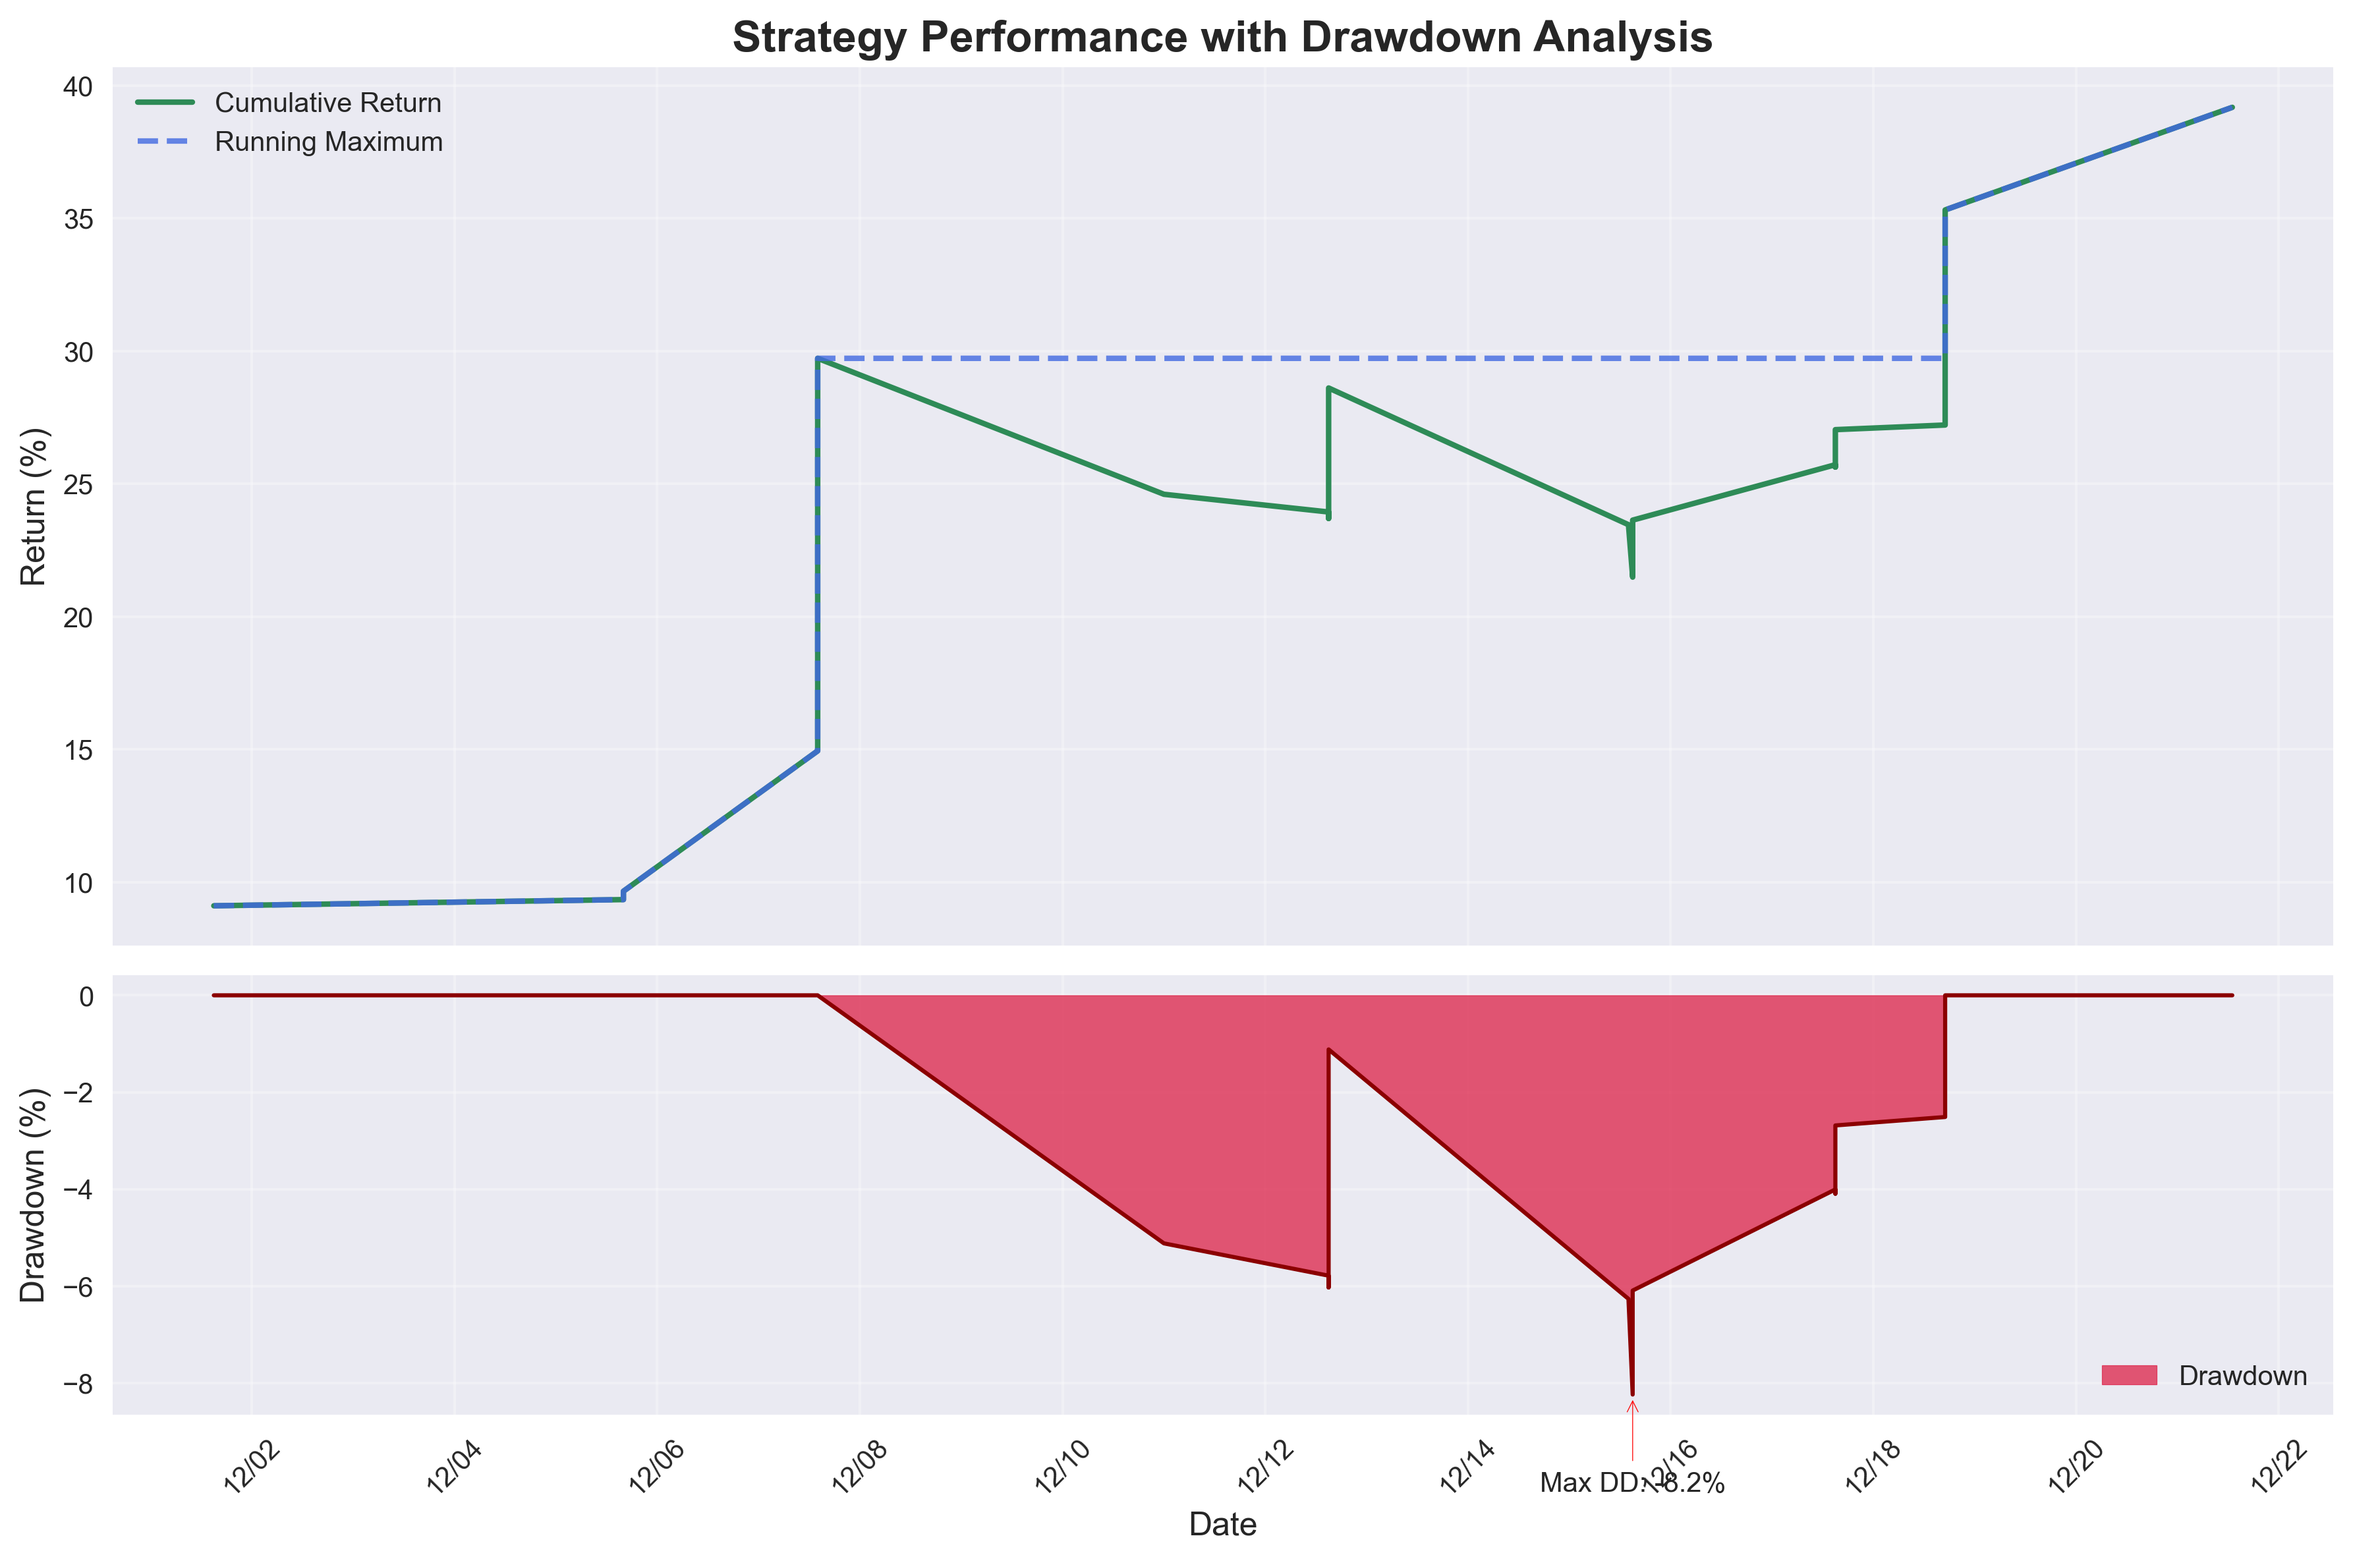
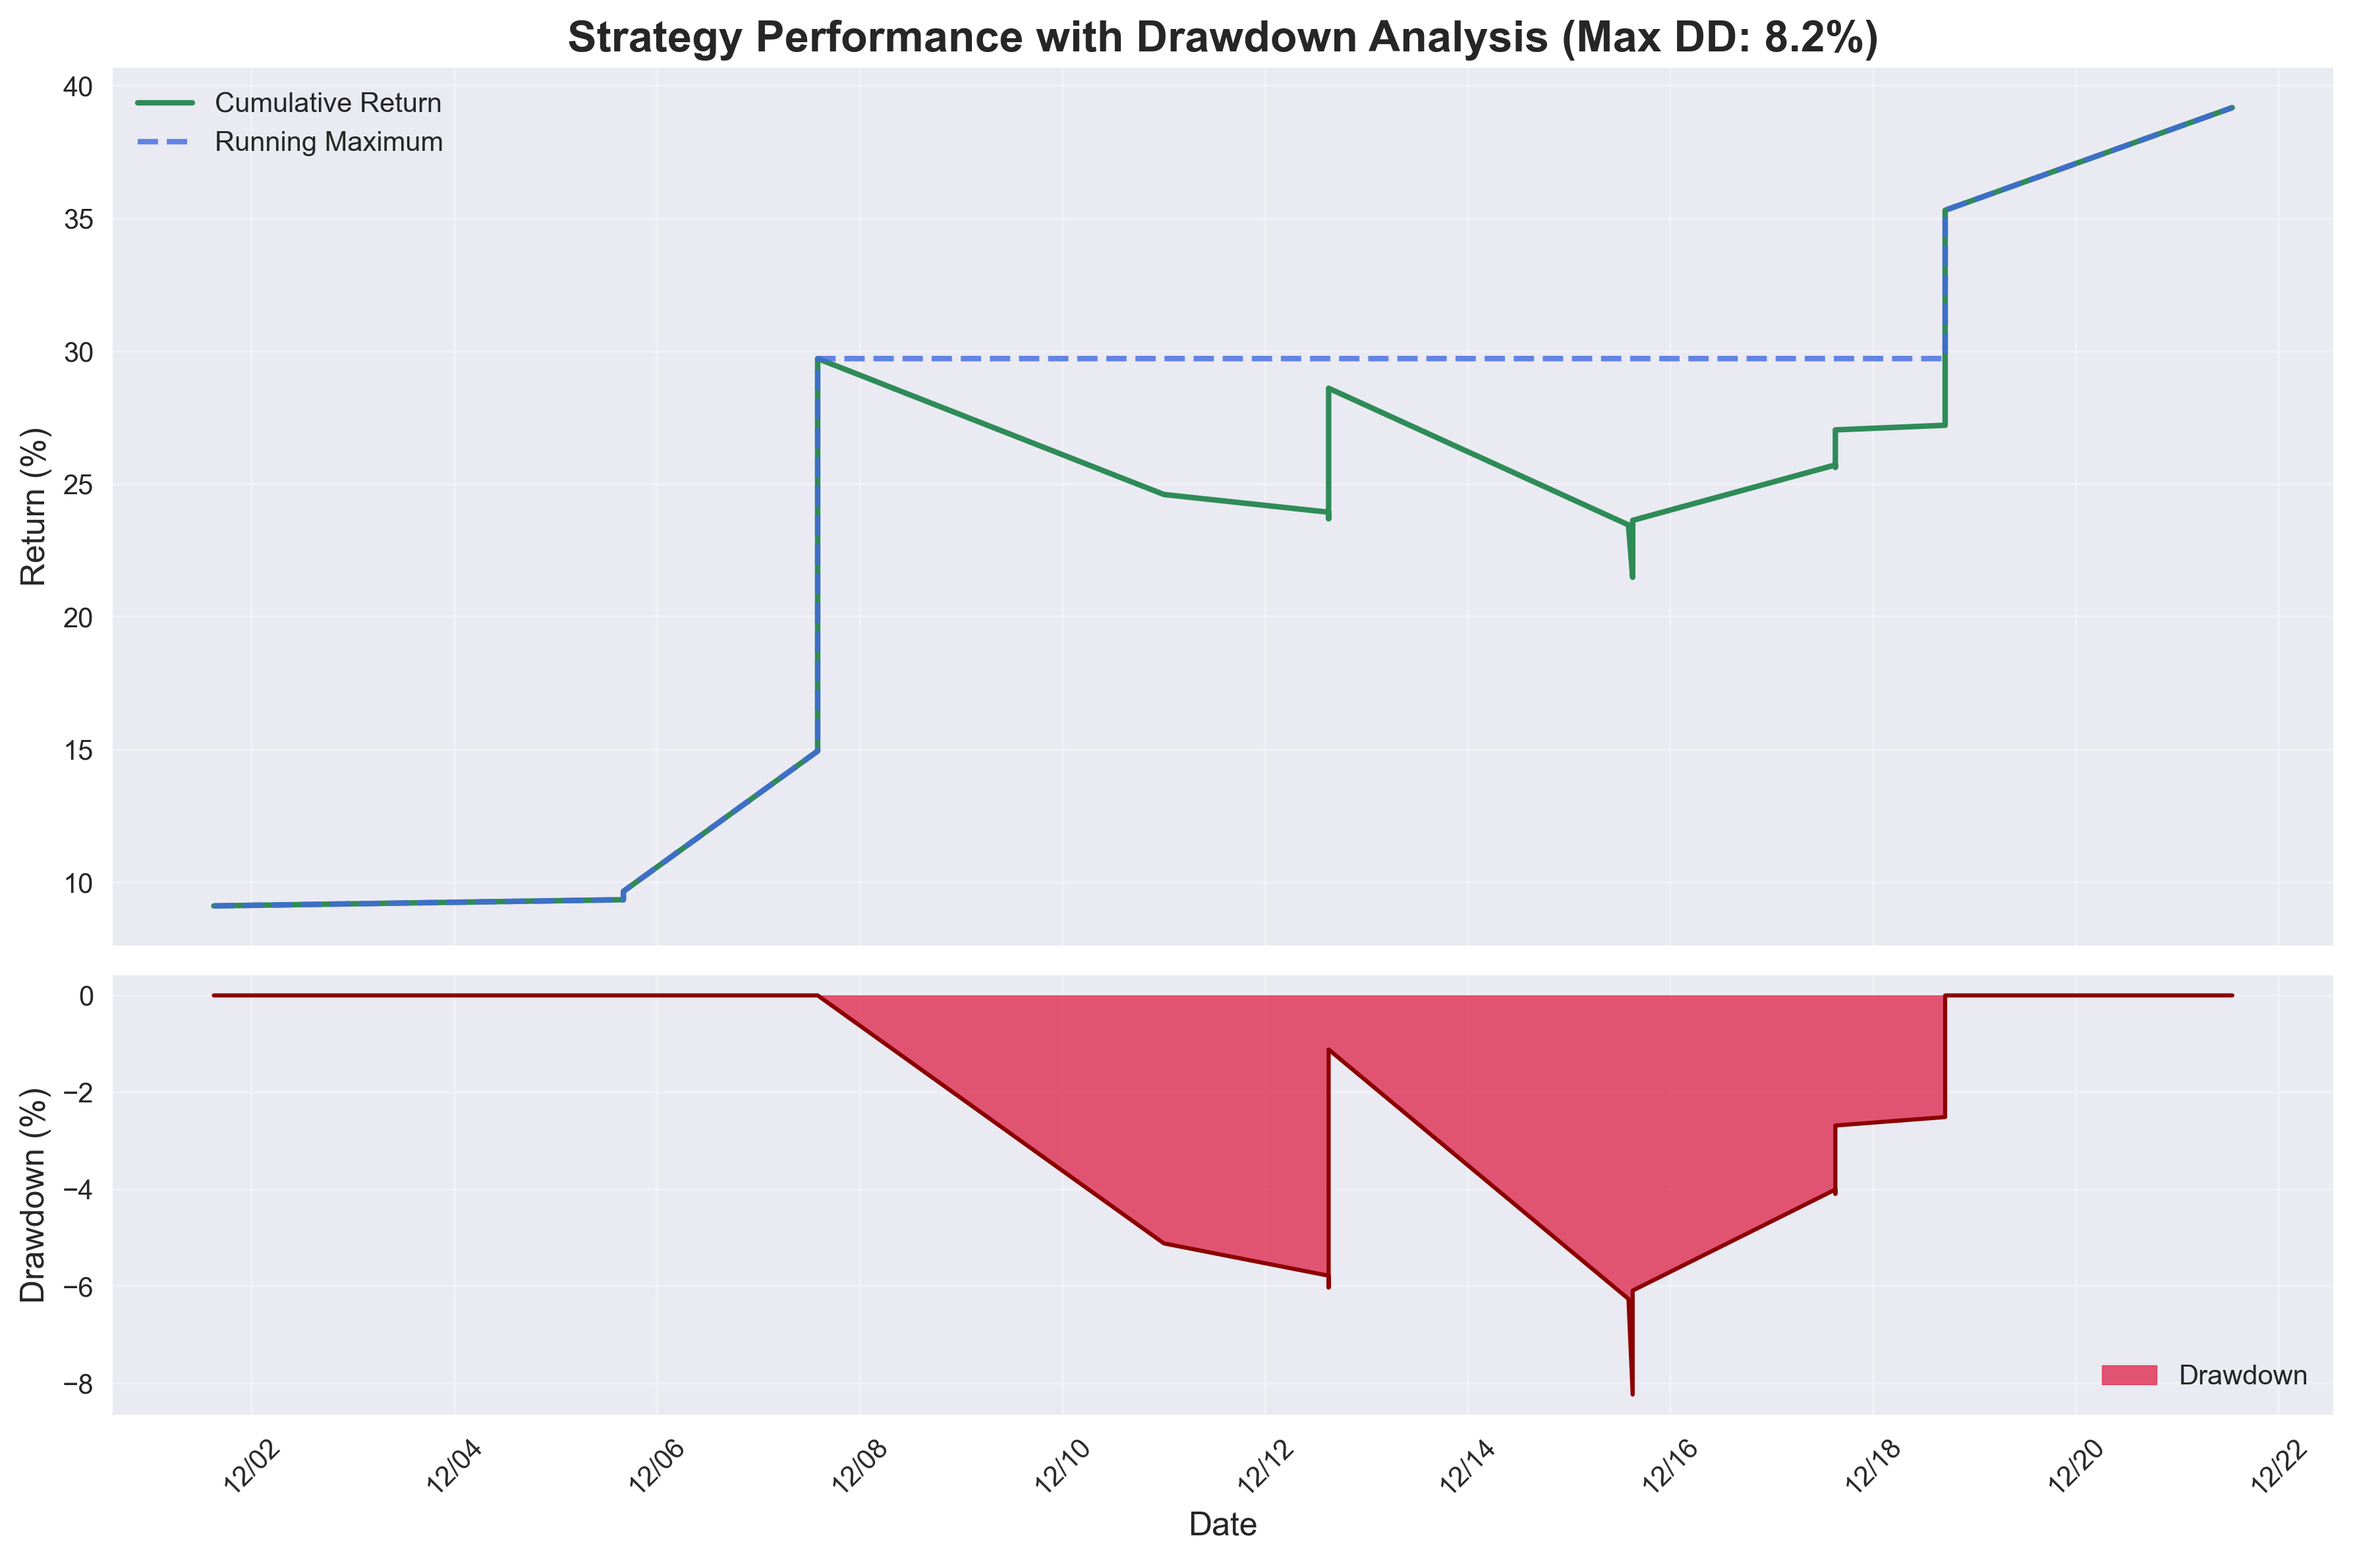
Fixed visualizations

Changed region(s): [[0.2487, 0.0, 0.8082, 0.0312], [0.6528, 0.9371, 0.7149, 0.9683]]

diff --git a/src/visualizations.py b/src/visualizations.py
@@ -159,7 +159,11 @@ class StrategyVisualizer:
         ax1.plot(trades_df['entry_time'], trades_df['running_max'] * 100, 
                 color='#4169E1', linewidth=2, linestyle='--', alpha=0.8, label='Running Maximum')
         
-        ax1.set_title('Strategy Performance with Drawdown Analysis', 
+        # Find maximum drawdown first for title
+        max_dd_idx = trades_df['drawdown_pct'].idxmin()
+        max_dd_value = trades_df.loc[max_dd_idx, 'drawdown_pct']
+        
+        ax1.set_title(f'Strategy Performance with Drawdown Analysis (Max DD: {abs(max_dd_value):.1f}%)', 
                      fontsize=self.chart_params['title_size'], fontweight='bold')
         ax1.set_ylabel('Return (%)', fontsize=self.chart_params['label_size'])
         ax1.grid(True, alpha=self.chart_params['grid_alpha'])
@@ -170,17 +174,6 @@ class StrategyVisualizer:
                         color='#DC143C', alpha=0.7, label='Drawdown')
         ax2.plot(trades_df['entry_time'], trades_df['drawdown_pct'], 
                 color='#8B0000', linewidth=1.5)
-        
-        # Find and annotate maximum drawdown
-        max_dd_idx = trades_df['drawdown_pct'].idxmin()
-        max_dd_date = trades_df.loc[max_dd_idx, 'entry_time']
-        max_dd_value = trades_df.loc[max_dd_idx, 'drawdown_pct']
-        
-        ax2.annotate(f'Max DD: {max_dd_value:.1f}%', 
-                    xy=(max_dd_date, max_dd_value),
-                    xytext=(max_dd_date, max_dd_value - 2),
-                    arrowprops=dict(arrowstyle='->', color='red'),
-                    fontsize=10, ha='center')
         
         ax2.set_xlabel('Date', fontsize=self.chart_params['label_size'])
         ax2.set_ylabel('Drawdown (%)', fontsize=self.chart_params['label_size'])
